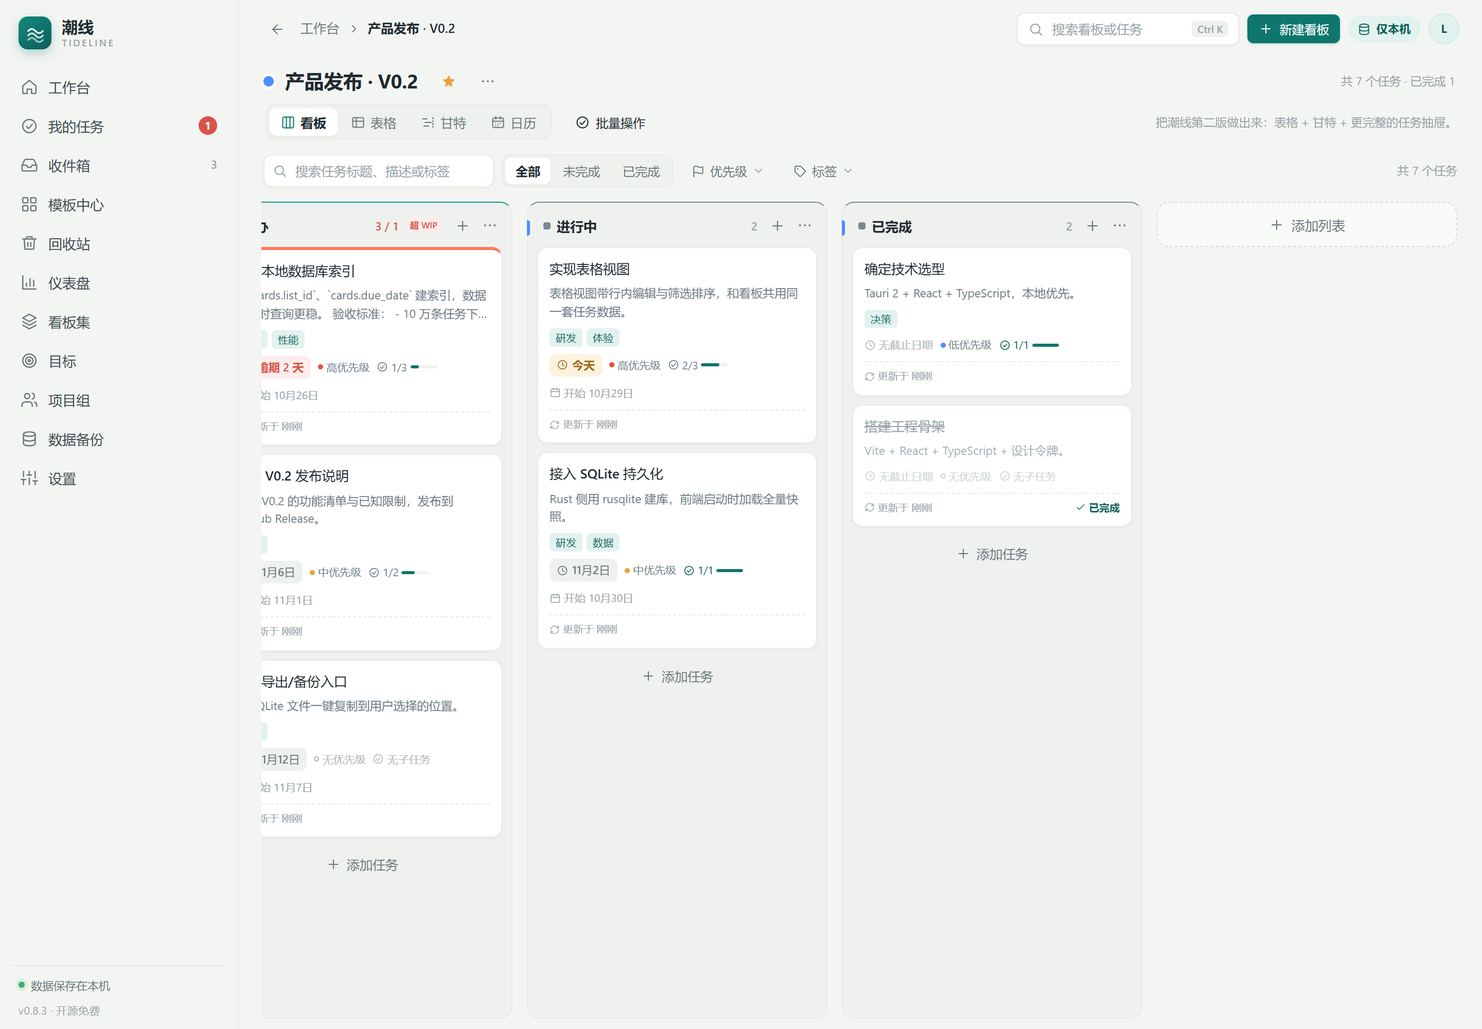
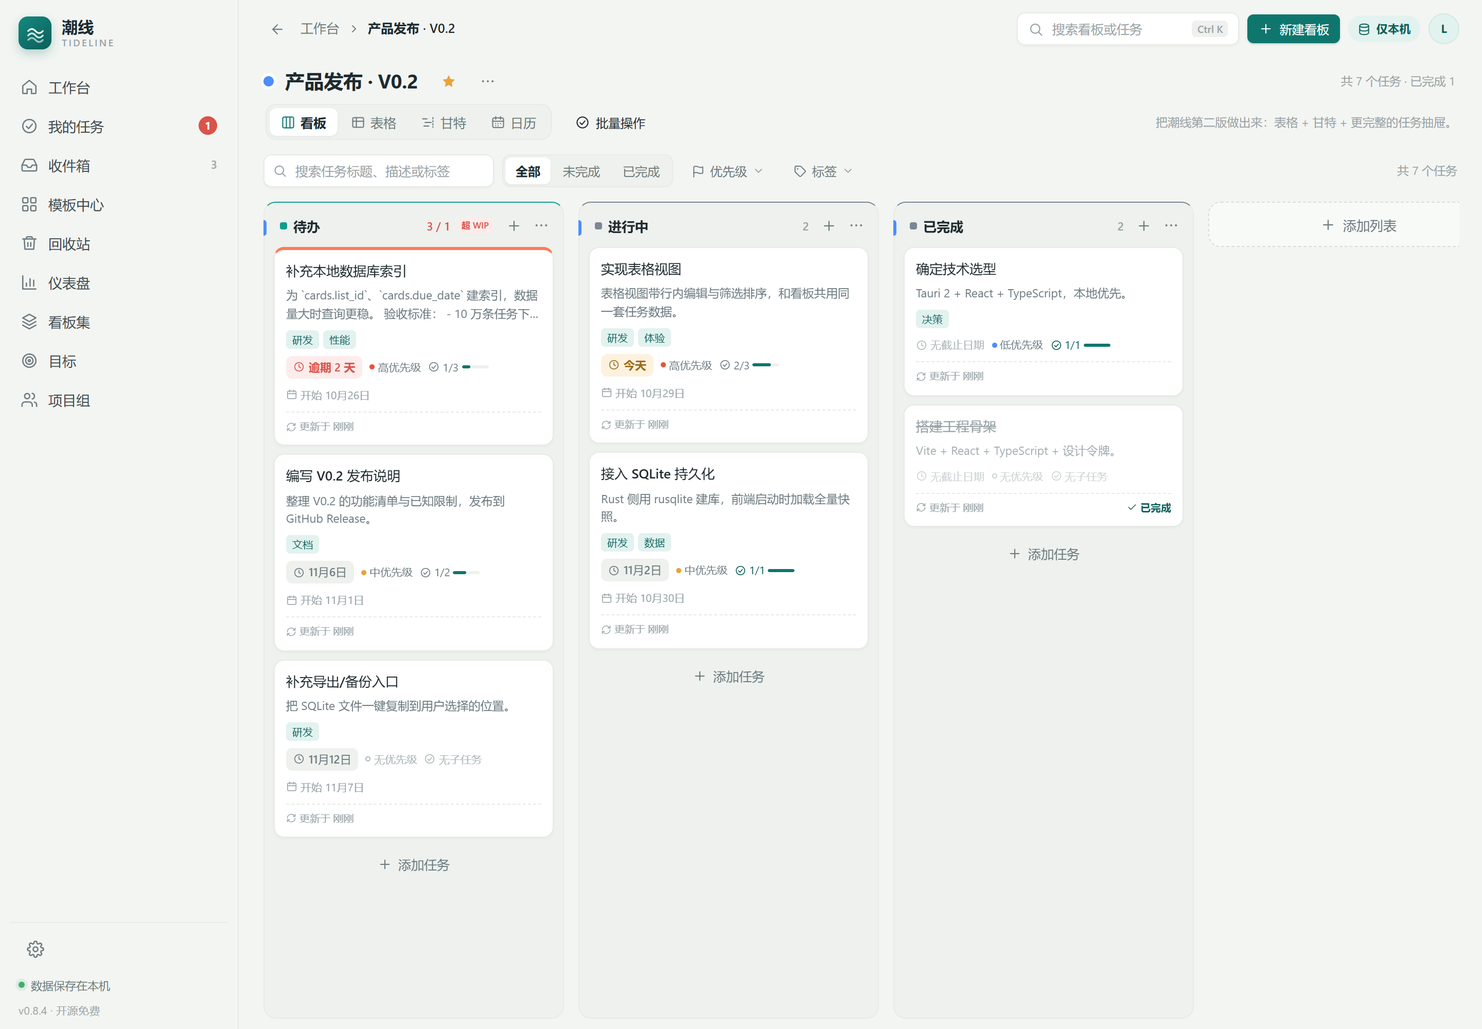
feat: V0.8.4 设置入口下移与备份并入设置
- 左侧菜单移除「设置」「数据备份」两个入口
- 左下角新增齿轮按钮打开设置，并显示当前激活状态
- 数据备份迁移到设置页「数据与备份」标签，复用原导出/恢复能力
- 设置页提供偏好设置 / 数据与备份两个标签，URL 可直达并刷新保持
- 旧 /data 路由自动重定向到 /settings?tab=data
- 移除左侧菜单冗余入口，更新 README/开发计划/五版本规划与截图
- 安装包验证 0.8.3 自定义路径升级、全新安装/启动/卸载

diff --git a/src/pages/SettingsPage.tsx b/src/pages/SettingsPage.tsx
@@ -1,5 +1,5 @@
 import { useEffect, useState } from 'react';
-import { useNavigate } from 'react-router-dom';
+import { useSearchParams } from 'react-router-dom';
 import { Icon } from '@/components/Icon';
 import { Modal } from '@/components/Modal';
 import { api } from '@/lib/api';
@@ -9,6 +9,7 @@ import type { AutoStartInfo, StorageInfo } from '@/lib/types';
 import { useAppStore, useSnapshot } from '@/store/appStore';
 import { useSettingsStore } from '@/store/settingsStore';
 import { useUpdateStore } from '@/store/updateStore';
+import { DataPage } from './DataPage';
 import './settings.css';
 
 interface PendingStorage {
@@ -18,7 +19,8 @@ interface PendingStorage {
 
 /** 设置管理（V0.5）：全局偏好 + 自定义数据目录，修改立即生效。 */
 export function SettingsPage() {
-  const navigate = useNavigate();
+  const [searchParams, setSearchParams] = useSearchParams();
+  const tab = searchParams.get('tab') === 'data' ? 'data' : 'preferences';
   const snapshot = useSnapshot();
   const settings = useSettingsStore();
   const reset = useSettingsStore((state) => state.reset);
@@ -120,13 +122,40 @@ export function SettingsPage() {
   return (
     <div className="page settings-page">
       <header className="settings-head">
-        <div className="page-eyebrow">偏好设置</div>
+        <div className="page-eyebrow">设置</div>
         <h1 className="settings-title">设置</h1>
         <p className="settings-sub">
-          设置自动保存在本机，不随备份导入导出。修改后立即生效，并对后续打开的所有看板生效。
+          {tab === 'data'
+            ? '导出或恢复本机全部数据。备份文件完全离线，不包含账号、网络或设备信息。'
+            : '设置自动保存在本机，不随备份导入导出。修改后立即生效，并对后续打开的所有看板生效。'}
         </p>
       </header>
 
+      <div className="settings-tabs" role="tablist" aria-label="设置分类">
+        <button
+          type="button"
+          role="tab"
+          aria-selected={tab === 'preferences'}
+          className={`settings-tab${tab === 'preferences' ? ' is-active' : ''}`}
+          onClick={() => setSearchParams({})}
+        >
+          <Icon name="sliders" size={14} />
+          偏好设置
+        </button>
+        <button
+          type="button"
+          role="tab"
+          aria-selected={tab === 'data'}
+          className={`settings-tab${tab === 'data' ? ' is-active' : ''}`}
+          onClick={() => setSearchParams({ tab: 'data' })}
+        >
+          <Icon name="database" size={14} />
+          数据与备份
+        </button>
+      </div>
+
+      {tab === 'preferences' ? (
+        <>
       {storageFlash ? <div className="settings-flash">{storageFlash}</div> : null}
       {storageError ? <div className="settings-flash is-error">{storageError}</div> : null}
 
@@ -350,10 +379,10 @@ export function SettingsPage() {
             <button
               type="button"
               className="btn btn-primary btn-sm"
-              onClick={() => navigate('/data')}
+              onClick={() => setSearchParams({ tab: 'data' })}
             >
               <Icon name="database" size={14} />
-              打开数据备份
+              打开数据与备份
             </button>
           </div>
         </section>
@@ -515,6 +544,10 @@ export function SettingsPage() {
           </div>
         </Modal>
       ) : null}
+        </>
+      ) : (
+        <DataPage embedded />
+      )}
     </div>
   );
 }

diff --git a/src/pages/DataPage.tsx b/src/pages/DataPage.tsx
@@ -19,7 +19,7 @@ interface PendingImport {
  * 导入采用「先校验、再确认、事务替换」，失败不会破坏现有数据；
  * 恢复成功后重新拉取快照并清空回收站缓存，避免页面继续展示旧数据。
  */
-export function DataPage() {
+export function DataPage({ embedded = false }: { embedded?: boolean }) {
   const snapshot = useSnapshot();
   const trash = useAppStore((state) => state.trash);
   const loadTrash = useAppStore((state) => state.loadTrash);
@@ -102,14 +102,16 @@ export function DataPage() {
     storageInfo?.dbPath ?? '%APPDATA%\\com.lemostic.tideline\\tideline.db';
 
   return (
-    <div className="page data-page">
-      <header className="data-head">
-        <div className="page-eyebrow">数据与备份</div>
-        <h1 className="data-title">把数据握在自己手里</h1>
-        <p className="data-sub">
-          潮线只把数据保存在本机。定期导出一份 JSON 备份，换电脑或误操作时都能完整恢复。
-        </p>
-      </header>
+    <div className={embedded ? 'data-page data-page-embedded' : 'page data-page'}>
+      {embedded ? null : (
+        <header className="data-head">
+          <div className="page-eyebrow">数据与备份</div>
+          <h1 className="data-title">把数据握在自己手里</h1>
+          <p className="data-sub">
+            潮线只把数据保存在本机。定期导出一份 JSON 备份，换电脑或误操作时都能完整恢复。
+          </p>
+        </header>
+      )}
 
       {flash ? <div className="data-flash">{flash}</div> : null}
       {error ? <div className="data-flash is-error">{error}</div> : null}

diff --git a/src/App.tsx b/src/App.tsx
@@ -1,5 +1,5 @@
 import { useEffect, useRef } from 'react';
-import { HashRouter, Route, Routes, useLocation, useNavigate } from 'react-router-dom';
+import { HashRouter, Navigate, Route, Routes, useLocation, useNavigate } from 'react-router-dom';
 import { BrandMark } from '@/components/Icon';
 import { NewBoardModal } from '@/components/NewBoardModal';
 import { SearchDialog } from '@/components/SearchDialog';
@@ -10,7 +10,6 @@ import { BoardPage } from '@/pages/BoardPage';
 import { BoardSetDetailPage } from '@/pages/BoardSetDetailPage';
 import { BoardSetsPage } from '@/pages/BoardSetsPage';
 import { DashboardPage } from '@/pages/DashboardPage';
-import { DataPage } from '@/pages/DataPage';
 import { GoalDetailPage } from '@/pages/GoalDetailPage';
 import { GoalsPage } from '@/pages/GoalsPage';
 import { InboxPage } from '@/pages/InboxPage';
@@ -80,7 +79,7 @@ export default function App() {
               <Route path="/inbox" element={<InboxPage />} />
               <Route path="/templates" element={<TemplatesPage />} />
               <Route path="/trash" element={<TrashPage />} />
-              <Route path="/data" element={<DataPage />} />
+              <Route path="/data" element={<Navigate to="/settings?tab=data" replace />} />
               <Route path="/settings" element={<SettingsPage />} />
               <Route path="/dashboard" element={<DashboardPage />} />
               <Route path="/board/:boardId" element={<BoardPage />} />

diff --git a/src/pages/settings.css b/src/pages/settings.css
@@ -425,3 +425,48 @@
   font-size: 10.5px;
   line-height: 1.55;
 }
+
+/* 设置页内部分类（V0.8.4） */
+.settings-tabs {
+  display: inline-flex;
+  align-items: center;
+  gap: 2px;
+  margin: 0 0 16px;
+  padding: 3px;
+  border: 1px solid var(--line);
+  border-radius: 9px;
+  background: var(--surface-sunken);
+}
+
+.settings-tab {
+  display: inline-flex;
+  align-items: center;
+  gap: 5px;
+  height: 30px;
+  padding: 0 11px;
+  border: 0;
+  border-radius: 6px;
+  background: transparent;
+  color: var(--muted);
+  font-size: 11.5px;
+  cursor: pointer;
+}
+
+.settings-tab:hover {
+  color: var(--ink-2);
+}
+
+.settings-tab.is-active {
+  background: var(--surface);
+  color: var(--primary-strong);
+  font-weight: 600;
+  box-shadow: var(--shadow-xs);
+}
+
+.data-page-embedded {
+  width: 100%;
+}
+
+.data-page-embedded .data-grid {
+  margin-top: 0;
+}

diff --git a/src/components/Sidebar.tsx b/src/components/Sidebar.tsx
@@ -20,8 +20,6 @@ const WORKSPACE_NAV: NavEntry[] = [
   { to: '/board-sets', label: '看板集', icon: 'layers' },
   { to: '/goals', label: '目标', icon: 'target' },
   { to: '/team', label: '项目组', icon: 'users' },
-  { to: '/data', label: '数据备份', icon: 'database' },
-  { to: '/settings', label: '设置', icon: 'sliders' },
 ];
 
 export function Sidebar() {
@@ -67,6 +65,14 @@ export function Sidebar() {
       </nav>
 
       <div className="sidebar-footer">
+        <NavLink
+          to="/settings"
+          className={({ isActive }) => `sidebar-gear${isActive ? ' is-active' : ''}`}
+          title="设置"
+          aria-label="设置"
+        >
+          <Icon name="settings" size={17} />
+        </NavLink>
         <div className="storage-status">
           <span className="storage-dot" />
           数据保存在本机

diff --git a/src/components/Icon.tsx b/src/components/Icon.tsx
@@ -140,6 +140,12 @@ const ICONS: Record<string, ReactNode> = {
       <path d="M16 3.13a4 4 0 0 1 0 7.75" />
     </>
   ),
+  settings: (
+    <>
+      <circle cx="12" cy="12" r="3.2" />
+      <path d="M19.4 15a1.7 1.7 0 0 0 .34 1.87l.06.06a2 2 0 1 1-2.83 2.83l-.06-.06a1.7 1.7 0 0 0-1.87-.34 1.7 1.7 0 0 0-1 1.55V21a2 2 0 1 1-4 0v-.09A1.7 1.7 0 0 0 8.9 19.4a1.7 1.7 0 0 0-1.87.34l-.06.06a2 2 0 1 1-2.83-2.83l.06-.06A1.7 1.7 0 0 0 4.6 15a1.7 1.7 0 0 0-1.55-1H3a2 2 0 1 1 0-4h.09A1.7 1.7 0 0 0 4.6 8.9a1.7 1.7 0 0 0-.34-1.87l-.06-.06a2 2 0 1 1 2.83-2.83l.06.06A1.7 1.7 0 0 0 9 4.6a1.7 1.7 0 0 0 1-1.55V3a2 2 0 1 1 4 0v.09a1.7 1.7 0 0 0 1 1.55 1.7 1.7 0 0 0 1.87-.34l.06-.06a2 2 0 1 1 2.83 2.83l-.06.06A1.7 1.7 0 0 0 19.4 9c.24.6.83 1 1.47 1H21a2 2 0 1 1 0 4h-.09c-.64 0-1.23.4-1.47 1Z" />
+    </>
+  ),
   sliders: (
     <>
       <path d="M4 21v-7" />

diff --git a/src/styles/base.css b/src/styles/base.css
@@ -1619,3 +1619,40 @@ ol {
 .topbar-update:hover {
   border-color: var(--primary);
 }
+
+/* 左下角设置入口（V0.8.4） */
+.sidebar-gear {
+  display: grid;
+  width: 32px;
+  height: 32px;
+  margin: 0 8px 2px;
+  place-items: center;
+  border-radius: 8px;
+  color: var(--muted);
+  text-decoration: none;
+  transition: background 120ms var(--ease), color 120ms var(--ease);
+}
+
+.sidebar-gear:hover {
+  background: rgba(27, 42, 36, 0.06);
+  color: var(--ink);
+}
+
+.sidebar-gear.is-active {
+  background: var(--surface);
+  color: var(--primary-strong);
+  box-shadow: var(--shadow-xs);
+}
+
+@media (max-width: 820px) {
+  .sidebar-footer {
+    display: flex;
+    margin-top: auto;
+    padding-top: 8px;
+    border-top: 0;
+  }
+
+  .sidebar-gear {
+    margin: 0 auto;
+  }
+}

diff --git a/src/components/TopBar.tsx b/src/components/TopBar.tsx
@@ -10,7 +10,6 @@ const SECTION_LABELS: Record<string, string> = {
   '/inbox': '收件箱',
   '/templates': '模板中心',
   '/trash': '回收站',
-  '/data': '数据备份',
   '/settings': '设置',
   '/dashboard': '仪表盘',
   '/board-sets': '看板集',

diff --git a/README.md b/README.md
@@ -25,8 +25,8 @@
 - **甘特视图** —— 左侧任务列表 + 右侧时间轴，周/日两档缩放、今日线、周末底色、已完成开关、未排期分组；甘特条可拖动改期（按天吸附）
 - **日历视图** —— 6×7 月历，按截止日期归格，今天高亮、周末底色、跨月淡化、「+N 更多」展开、显示已完成；支持把任务拖到别的日期改期
 - **回收站** —— 删除任务先软删除进回收站，可恢复回原看板/列表，或彻底删除 / 一键清空
-- **数据备份** —— 全新「数据备份」页：把全部看板、列表、任务（含回收站与任务依赖）、看板集、目标、收件箱导出为 JSON；从备份整体恢复前先校验文件结构/引用关系，单事务替换、失败回滚；桌面端写入「文档」目录
-- **设置管理** —— 全局偏好页：启动页、默认看板视图、每周起始日、默认隐藏已完成、**任务链连线开关**；**桌面端支持自定义数据存储目录**（原生文件夹选择、数据库自动迁移、可恢复默认）；偏好保存在本机 localStorage，数据目录配置写入 `storage.json`，即时生效，可一键恢复默认
+- **数据备份（设置内）** —— 设置页「数据与备份」标签：把全部看板、列表、任务（含回收站与任务依赖）、看板集、目标、收件箱、多项目投入记录导出为 JSON；从备份整体恢复前先校验文件结构/引用关系，单事务替换、失败回滚；桌面端写入「文档」目录；旧 `/data` 链接自动重定向
+- **设置管理** —— **左下角齿轮按钮**打开设置，不再占用左侧菜单；全局偏好页：启动页、默认看板视图、每周起始日、默认隐藏已完成、**任务链连线开关**；**桌面端支持自定义数据存储目录**（原生文件夹选择、数据库自动迁移、可恢复默认）；数据备份并入设置页；偏好保存在本机 localStorage，数据目录配置写入 `storage.json`，即时生效，可一键恢复默认
 - **我的任务** —— 按「已逾期 / 今天到期 / 本周到期 / 稍后到期 / 无截止日期」自动分组，逾期红色计数，支持看板筛选、排序、隐藏已完成；**五列等宽自适应**，2K 下与看板泳道同宽（约 445px）
 - **收件箱** —— 快速记录想法（`Ctrl/Cmd + Enter`），一键转为指定看板的任务
 - **模板中心** —— 14 个真实模板，分类筛选、预览大纲、一键生成看板
@@ -36,7 +36,7 @@
 - **更新检查** —— 设置页可手动检查 GitHub 正式 Release，显示新版本、发布日期与说明，并一键打开发布页；可开启「启动时检查更新」（每 24 小时最多一次），发现新版本时顶栏显示提醒。**安装包签名完成前不静默下载安装**，始终由用户从发布页手动安装
 - **开机自动启动** —— 设置页可开启/关闭「开机自动启动」；桌面端写入当前用户 `HKCU\...\Run` 注册表，登录 Windows 后自动打开潮线，浏览器开发模式显示为不可用
 
-> 目标模块已完成；V0.4（任务依赖 / 备份 / 批量操作）、V0.5（仪表盘 / 看板集）、V0.6（目标 / 更新检查）、V0.7（看板个性化 / 工作台 / 双视图 / 开机启动）、V0.8.0（项目组资源）、V0.8.1（多项目 / 自定义角色 / 元数据）、V0.8.2（任务详情居中弹窗）、V0.8.3（多段投入记录）均已交付。
+> 目标模块已完成；V0.4（任务依赖 / 备份 / 批量操作）、V0.5（仪表盘 / 看板集）、V0.6（目标 / 更新检查）、V0.7（看板个性化 / 工作台 / 双视图 / 开机启动）、V0.8.0（项目组资源）、V0.8.1（多项目 / 自定义角色 / 元数据）、V0.8.2（任务详情居中弹窗）、V0.8.3（多段投入记录）、V0.8.4（设置入口迁移 / 备份并入设置）均已交付。
 
 ### 界面预览
 
@@ -62,9 +62,9 @@
 | --- | --- |
 | ![收件箱](docs/screenshots/09-inbox.png) | ![模板中心](docs/screenshots/10-templates.png) |
 
-| 数据备份 | 工作台 |
+| 设置 · 数据与备份 | 工作台 |
 | --- | --- |
-| ![数据备份](docs/screenshots/14-data-backup.png) | ![工作台](docs/screenshots/26-workbench.png) |
+| ![设置中的数据与备份](docs/screenshots/37-settings-data-backup.png) | ![工作台](docs/screenshots/26-workbench.png) |
 
 ### 工作台
 
@@ -85,6 +85,8 @@
 ### 设置管理
 
 ![设置](docs/screenshots/15-settings.png)
+
+左下角齿轮进入设置；「数据与备份」标签内完成导出与恢复，不再占用左侧菜单。
 
 ### 更新检查
 
@@ -132,7 +134,7 @@
 
 ### 方式一：安装包（推荐）
 
-下载 `release/tideline-0.8.3-win64-setup.exe`，双击按向导安装即可（安装向导为简体中文）。
+下载 `release/tideline-0.8.4-win64-setup.exe`，双击按向导安装即可（安装向导为简体中文）。
 默认安装目录为 **`%LOCALAPPDATA%\Programs\Tideline`**（通常即 `C:\Users\<用户名>\AppData\Local\Programs\Tideline`；程序文件不再放进 Roaming 漫游目录），安装时仍可自选其它目录；
 **如果检测到旧版本，会自动带出旧版本的安装路径并默认覆盖安装，无需手动卸载旧版本**，升级后本地数据保持不变。
 安装器会创建开始菜单与桌面快捷方式，卸载可在「设置 → 应用」中完成。
@@ -145,7 +147,7 @@
 pnpm install
 pnpm tauri dev          # 桌面端开发模式
 pnpm tauri build --bundles nsis   # 打 NSIS 安装包
-# 产物：src-tauri/target/release/bundle/nsis/tideline_0.8.3_x64-setup.exe
+# 产物：src-tauri/target/release/bundle/nsis/tideline_0.8.4_x64-setup.exe
 ```
 
 浏览器里调试 UI（数据写 localStorage，与桌面端共用页面代码）：
@@ -216,7 +218,7 @@ pnpm tauri build --bundles nsis   # Windows NSIS 安装包
 | V0.1（已完成） | 看板 / 我的任务 / 收件箱 / 模板中心 / 本地 SQLite |
 | V0.2（已完成） | 任务抽屉增强（子任务/标签/Markdown/起止日期）、表格视图、甘特视图、旧库自动迁移 |
 | **V0.3 / V0.3.1 / V0.3.2 / V0.3.3 / V0.3.4 / V0.3.5 / V0.3.6 / V0.3.7 / V0.3.8 / V0.4.0（已完成）** | 日历视图、看板内筛选器、任务回收站、NSIS 安装包、v3 数据库迁移；持续补丁优化卡片/拖拽/弹窗/表格层级、安装路径、桌面端拖拽、宽屏列宽与各菜单主体铺满 |
-| **V0.4.1 / V0.4.2 / V0.5.0 / V0.5.1 / V0.5.2 / V0.5.3 / V0.5.4 / V0.5.5 / V0.6.0 / V0.6.1 / V0.7.0 / V0.7.1 / V0.7.2 / V0.7.3 / V0.8.0 / V0.8.1 / V0.8.2 / V0.8.3（当前）** | V0.4 收尾：任务依赖、看板内批量操作；设置管理（启动页 / 默认视图 / 每周起始日 / 默认隐藏已完成 / 自定义数据目录 / 任务链连线）；V0.5 仪表盘与看板集；V0.5.5 中文安装向导与旧路径自动沿用；V0.6.0 目标树与进度回写；V0.6.1 更新检查与顶栏提醒；V0.7.0 卡片颜色、列表颜色/WIP、安装器注册表安装目录；V0.7.1 工作台门户与依赖箭头方向；V0.7.2 工作台/看板卡片列表视图切换；V0.7.3 开机自动启动；V0.8.0 项目组资源与绩效；V0.8.1 多项目、自定义角色与项目元数据；V0.8.2 任务详情居中弹窗（4:3、独立滚动）；V0.8.3 多段投入记录与项目投入统计 |
+| **V0.4.1 / V0.4.2 / V0.5.0 / V0.5.1 / V0.5.2 / V0.5.3 / V0.5.4 / V0.5.5 / V0.6.0 / V0.6.1 / V0.7.0 / V0.7.1 / V0.7.2 / V0.7.3 / V0.8.0 / V0.8.1 / V0.8.2 / V0.8.3 / V0.8.4（当前）** | V0.4 收尾：任务依赖、看板内批量操作；设置管理（启动页 / 默认视图 / 每周起始日 / 默认隐藏已完成 / 自定义数据目录 / 任务链连线）；V0.5 仪表盘与看板集；V0.5.5 中文安装向导与旧路径自动沿用；V0.6.0 目标树与进度回写；V0.6.1 更新检查与顶栏提醒；V0.7.0 卡片颜色、列表颜色/WIP、安装器注册表安装目录；V0.7.1 工作台门户与依赖箭头方向；V0.7.2 工作台/看板卡片列表视图切换；V0.7.3 开机自动启动；V0.8.0 项目组资源与绩效；V0.8.1 多项目、自定义角色与项目元数据；V0.8.2 任务详情居中弹窗（4:3、独立滚动）；V0.8.3 多段投入记录与项目投入统计；V0.8.4 设置入口移至左下角齿轮，数据备份并入设置 |
 | V0.4（已完成） | 任务依赖、JSON 导入/导出与备份入口、看板内批量操作 |
 | V0.5（已完成） | 仪表盘统计、看板集（多板汇总表） |
 | V0.6（已完成） | 目标、更新检查；静默自动安装与代码签名待证书 |
@@ -242,6 +244,7 @@ pnpm tauri build --bundles nsis   # Windows NSIS 安装包
 
 | 版本 | 变更 |
 | --- | --- |
+| V0.8.4 | 设置入口从左侧菜单移除，改为左下角齿轮按钮；数据备份迁移到设置页「数据与备份」标签，旧 `/data` 链接自动重定向；左侧菜单更精简 |
 | V0.8.3 | 成员投入改为多时间段：每次入组/出组独立成段，释放/回归自动续段，可手动补录、编辑、删除历史段；项目「投入记录」按成员汇总累计人天、段数、当前在组与区间筛选；schema v10，旧成员自动补首段，备份恢复包含全部时间段 |
 | V0.8.2 | 任务详情从右侧抽屉改为居中弹窗：固定 4:3 比例、宽高自适应视口、头部/页脚固定、内容区独立滚动，长表单不会被压扁；小窗口保持比例并内部滚动 |
 | V0.8.1 | 项目组升级为多项目空间：项目可增删改、星标、归档、自定义颜色；每个项目独立维护自定义角色、任意元数据字段、成员、周末加班与绩效；schema v9，旧 V0.8 团队数据自动归入「默认项目」 |

diff --git a/docs/开发计划.md b/docs/开发计划.md
@@ -111,6 +111,7 @@ V0.2 验收（已完成）：
 | V0.8.1 功能 | 多项目空间：schema v9 新增 `projects` / `project_meta_fields` / `project_roles`，`team_members` 增加项目归属与自定义角色；项目可增删改、星标、归档、自定义颜色/元数据；每项目独立角色、成员、加班与绩效；旧 V0.8 数据自动迁入「默认项目」 |
 | V0.8.2 功能 | 任务详情从右侧抽屉改为居中弹窗：4:3 比例，宽高同时受视口约束；头部/页脚固定，内容区独立滚动，原有字段不压缩；支持 Esc 与点击遮罩关闭，小视口保持比例 |
 | V0.8.3 功能 | 成员多段投入：schema v10 新增 `member_tenures`；同一成员可多次入组/出组，每次一段独立起止日期；释放/回归自动续段，可手动补录/编辑/删除；项目「投入记录」按成员汇总累计人天、段数、当前在组，支持成员/日期筛选；旧成员自动补首段 |
+| V0.8.4 功能 | 设置入口从左侧菜单移除，改为左下角齿轮按钮；数据备份并入设置页「数据与备份」标签；旧 `/data` 路由重定向到设置数据页；设置内部使用偏好设置/数据与备份两个标签 |
 
 V0.3 验收（已完成）：
 
@@ -242,6 +243,13 @@ V0.8.3 多段投入记录验收（已完成）：
 - [x] 项目投入记录页按成员汇总累计人天、段数、首次入组与当前状态
 - [x] 支持按成员、日期范围筛选时间段
 - [x] 旧成员数据/旧备份自动补首段；备份恢复包含全部时间段
+
+V0.8.4 设置入口迁移验收（已完成）：
+
+- [x] 左侧菜单不再显示「设置」「数据备份」
+- [x] 左下角齿轮按钮可打开设置并高亮当前状态
+- [x] 设置页包含「偏好设置」「数据与备份」标签，备份导出/恢复功能完整
+- [x] 旧 `/data` 链接重定向到设置数据标签，刷新保持当前标签
 
 ---
 

diff --git a/docs/五个版本规划.md b/docs/五个版本规划.md
@@ -47,6 +47,7 @@
 - 周末加班：按日期、成员、时长排班；可标记「已发生」；月度小时汇总
 - 绩效加减分：交付/质量/协作维度，加分正数、减分负数；按成员月度排名与净分
 - 成员多段投入记录：入组/出组历史独立时间段、可编辑补录、项目维度累计人天统计（V0.8.3）
+- 设置入口下移：左下角齿轮，数据备份并入设置页（V0.8.4）
 - 任务详情居中弹窗：4:3 比例、头部/页脚固定、内容区独立滚动（V0.8.2）
 - schema v9，数据全部本地，随备份导出/恢复
 
